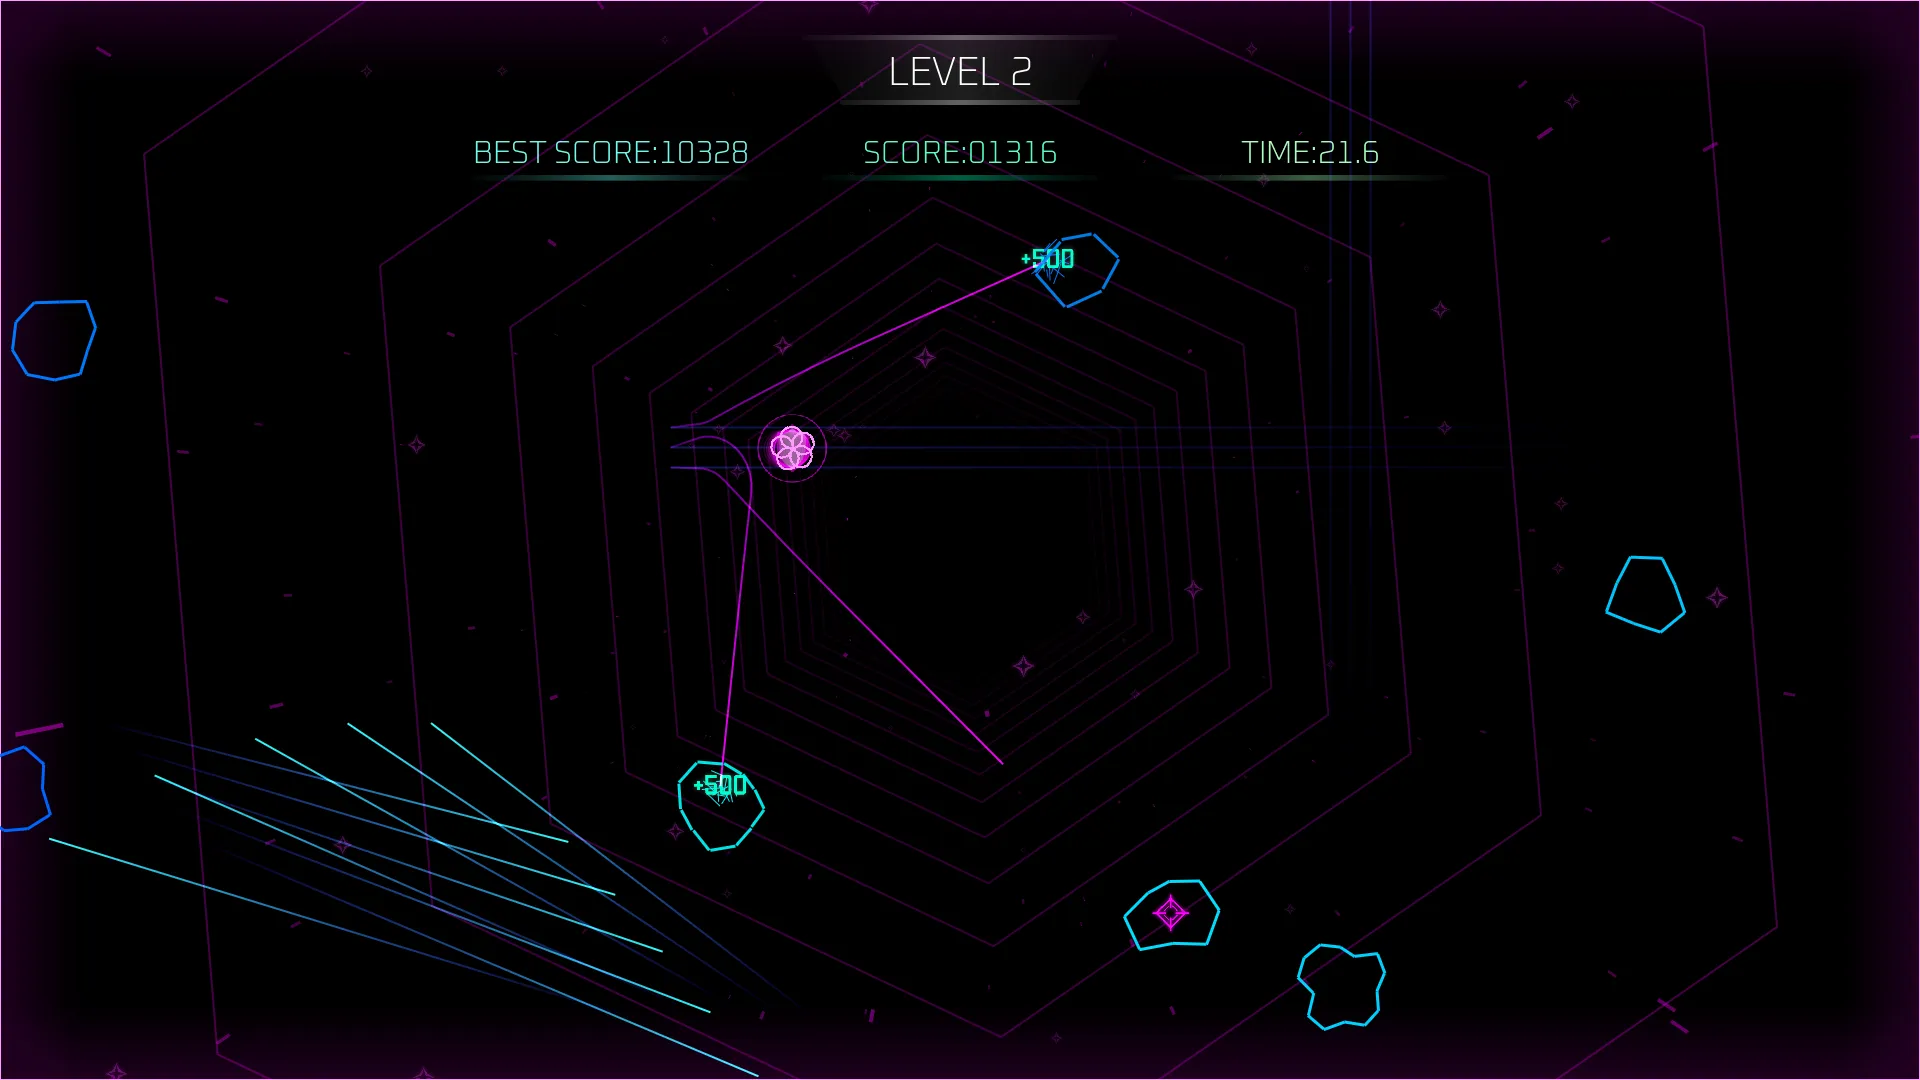
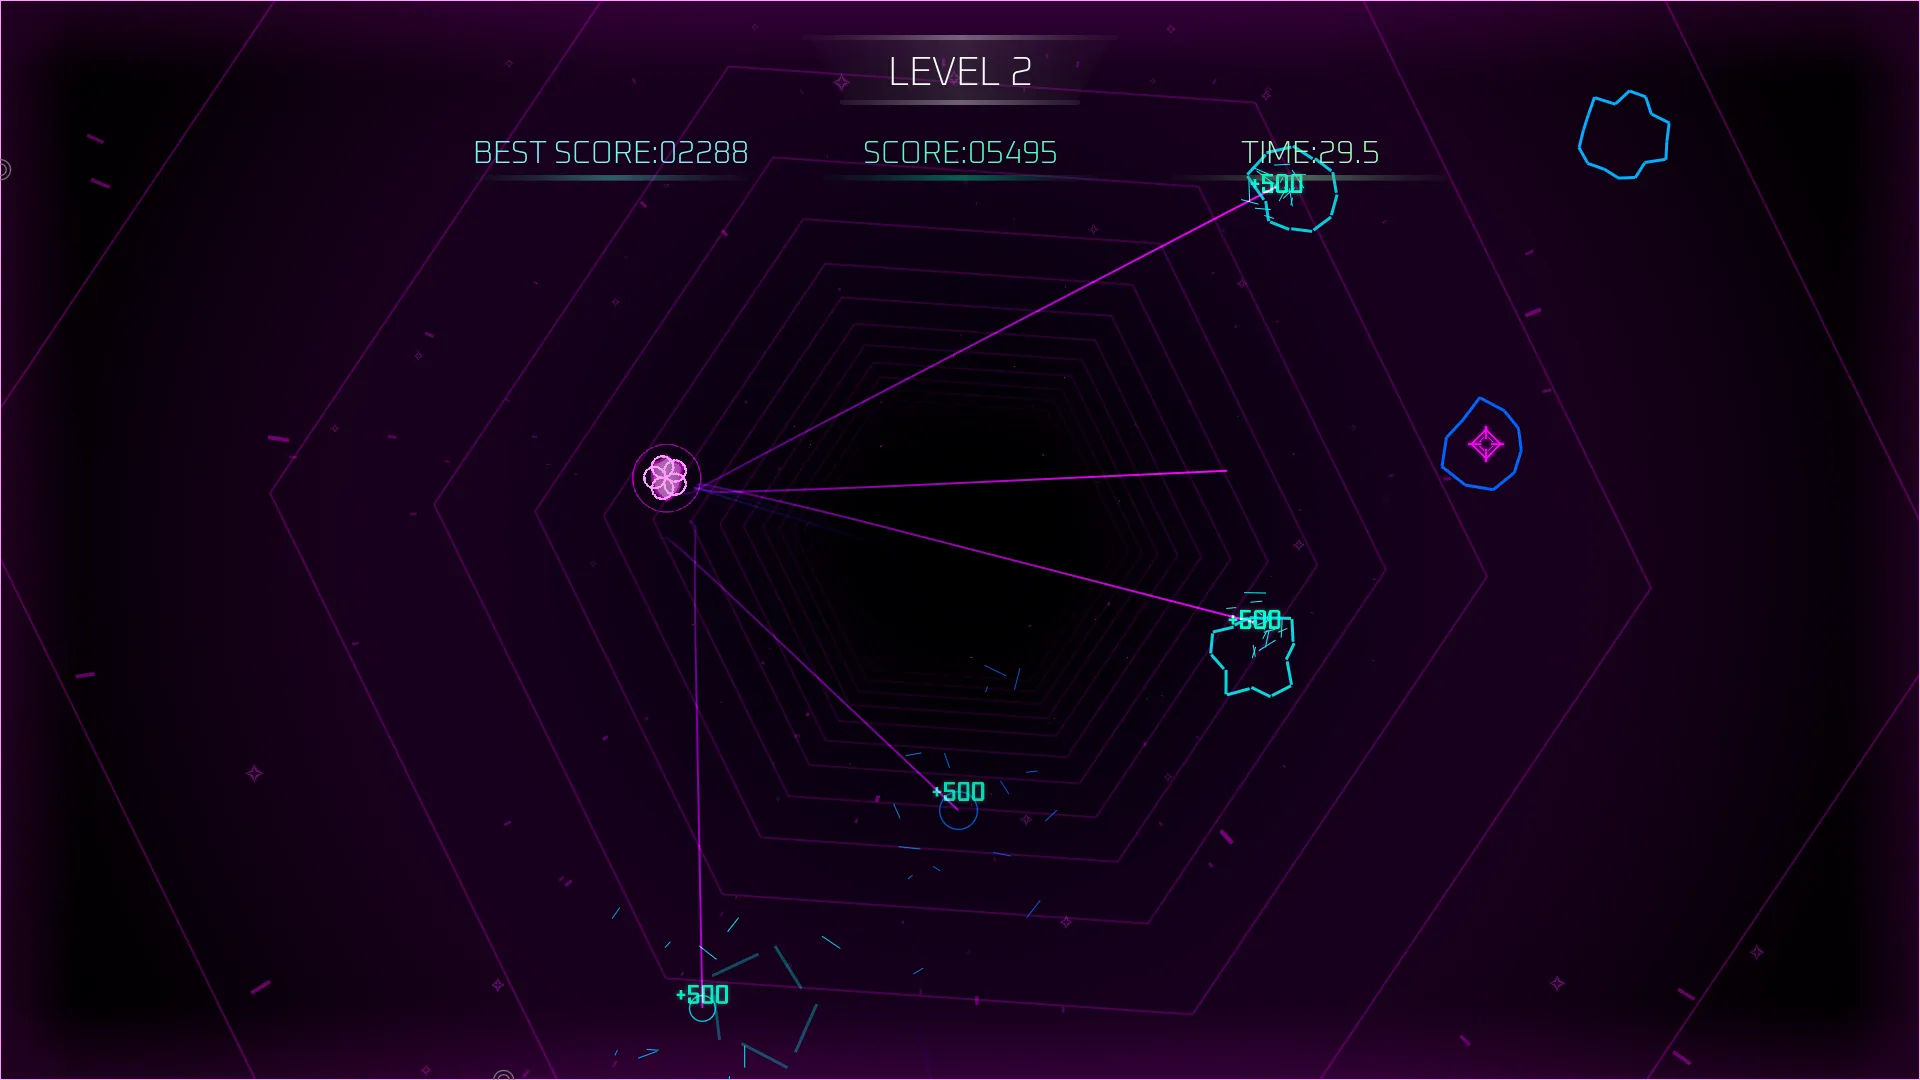
REFLECT LINEページの更新。一部文章の修正。

diff --git a/pages/works/reflect_line.html b/pages/works/reflect_line.html
@@ -87,7 +87,7 @@
           <svg xmlns="http://www.w3.org/2000/svg" width="0.9em" height="0.9em" viewBox="0 0 24 24" fill="none" stroke="#ff80ff" stroke-width="2" stroke-linecap="round" stroke-linejoin="round" class="lucide lucide-check-line-icon lucide-check-line"><path d="M20 4L9 15"/><path d="M21 19L3 19"/><path d="M9 15L4 10"/></svg>
         </div>
         <div class="text">
-          「アイデア賞」を受賞した代表作です。<br>
+          「アイデア賞」を受賞した代表作。<br>
           ゲームロジック・UI・演出まで全てコーディングで実装。<br>
           ロゴや作中のデザインも自作しました。
         </div>
@@ -312,7 +312,7 @@
 
       <div class="panel kr-anim_fade-in">
         <p>
-          以下のサイクルをゲームオーバーになるまで繰り返すエンドレスゲームです。<br>
+          以下の操作を、ゲームオーバーになるまで繰り返すエンドレスゲームです。<br>
           最終スコアでハイスコアを競います。
         </p>
       
@@ -379,9 +379,25 @@
           </div>
         </div>
         <br>
+
+        <!-- [5]ダッシュ -->
+        <div class="kr-layout_img-and-desc">
+          <img src="../../resources/image/works/reflect_line/gif/rule5_dash.gif" class="panel-img" width=200>
+          <div>
+            <span class="img-label">
+              <span class="seg index">5</span>
+              <span class="seg text">ダッシュ</span>
+            </span>
+            <p>
+              ダッシュした瞬間にレーザーに当たっても反射できます。<br>
+              リスクはあるがいつでも反射できる、上級者向けのアクションです。
+            </p>
+          </div>
+        </div>
+        <br>
   
         <p>
-          これらのルールは、ゲーム本編の<span class="keyword">「チュートリアル」</span>から確認できます。
+          これらのルールは、ゲーム本編の<span class="keyword">「チュートリアル」</span>で確認できます。
         </p>
         <img src="../../resources/image/works/reflect_line/menu_tutorial.webp" class="panel-img">
       </div>
@@ -611,11 +627,10 @@
 
       <div class="panel kr-anim_fade-in">
         <div class="title-row">
-          <b class="title">ネオン風のデザイン</b>
+          <b class="title">色の切り替えによる状況表現</b>
         </div>
         <p>
-          <span class="keyword">「きれい × かっこいい」</span>をコンセプトにした、個性的なデザインにしています。<br>
-          <font color=00ffff><b>青色</b></font>と<font color=ff00ff><b>ピンク色</b></font>の対比が特徴です。
+          背景を含む画面全体の色を2色で切り替えることで、現在の状況を直感的に把握できるようにしています。
         </p>
       
         <div class="kr-layout_grid">
@@ -640,11 +655,6 @@
             </a>
           </div>
         </div>
-  
-        <p>
-          レーザーは、痕跡が残像のように残ります。徐々に薄くなって色が変化するのもこだわりです。
-        </p>
-          <img src="../../resources/image/works/reflect_line/gif/anim_laser_color.gif" class="panel-img">
       </div>
     
       <div class="panel kr-anim_fade-in">
@@ -652,17 +662,23 @@
           <b class="title">「動き」を作るアニメーション</b>
         </div>
         <p>
-          ゲームには、常に動いてるものがないと寂しく感じます。<br>
-          そのため、画面の至る所で常に動きが出るよう、アニメーションを実装しています。<br>
+          ゲームを盛り上げる演出として、画面のどこかが常に動き続けるようにアニメーションを実装しています。<br>
         </p>
         <div class="kr-layout_grid">
           <div>
-            <img src="../../resources/image/works/reflect_line/gif/anim_levelup.gif" class="panel-img">
+            <img src="../../resources/image/works/reflect_line/gif/levelup.gif" class="panel-img">
           </div>
           <div>
             <img src="../../resources/image/works/reflect_line/gif/gameover.gif" class="panel-img">
           </div>
         </div>
+        <div>
+          <img src="../../resources/image/works/reflect_line/gif/menu.gif" class="panel-img">
+        </div>
+        <p>
+          レーザーは、痕跡が残像のように残ります。徐々に薄くなって色が変化するのもこだわりです。
+        </p>
+        <img src="../../resources/image/works/reflect_line/gif/laser_trace.gif" class="panel-img">
       </div>
 
       <div class="panel kr-anim_fade-in">
@@ -720,7 +736,7 @@
           ゲームならではの爽快感を表現するため、このような演出を採用しています。
         </p>
         <div class="sound-wrap">
-          <img src="../../resources/image/works/reflect_line/gif/anim_break_meteor.gif" class="sound-img">
+          <img src="../../resources/image/works/reflect_line/gif/break_meteor.gif" class="sound-img">
 
           <!-- サウンドボタン -->
           <button class="sound-btn">

diff --git a/index.html b/index.html
@@ -146,7 +146,7 @@
 
                 <p class="description">
                   2年間、全科目で最高評価を獲得し表彰。<br>
-                  決めたことは、最後までやりきります。
+                  課題として出されたこと以外でも自主的に挑戦します。
                 </p>
 
                 <div class="image">
@@ -162,7 +162,7 @@
                 <strong class="title">アイデア賞受賞</strong>
 
                 <p class="description">
-                  チーム制作作品が「アイデア賞」を受賞。<br>
+                  チームで制作したC++作品が受賞。<br>
                   細部までこだわり、見た目も面白さも追求します。
                 </p>
 
@@ -180,8 +180,7 @@
 
                 <p class="description">
                   Minecraftを10年間、9000時間以上プレイ。<br>
-                  自作ゲーム運営・動画制作・作曲・アドオン開発など<br>
-                  様々なクリエイティブを続けています。
+                  ゲームクリエイターを志望するきっかけになった活動です。
                 </p>
 
                 <div class="image">
@@ -360,7 +359,7 @@
             <div class="thumb"><img src="resources/image/works/reflect_line/card_image.webp"></div>
             <h3>REFLECT LINE</h3>
             <p>
-              「アイデア賞」を受賞した代表作です。<br>
+              「アイデア賞」を受賞した代表作。<br>
               ゲームロジック・UI・演出まで全てコーディングで実装。<br>
               ロゴや作中のデザインも自作しました。
             </p>

diff --git a/css/main_page.css b/css/main_page.css
@@ -514,15 +514,6 @@
     0 0 8px rgba(51,231,255,0.55);
 }
 
-/* ホバー */
-.profile-appeal .item:hover {
-  transform: translateY(-2px);
-  border-color: rgba(51,231,255,0.55);
-  box-shadow:
-    0 10px 30px rgba(51,231,255,0.12),
-    0 0 18px rgba(51,231,255,0.06);
-}
-
 /* ===============================
   ▼ プロフィール - 技術カテゴリ ▼
 ================================ */
